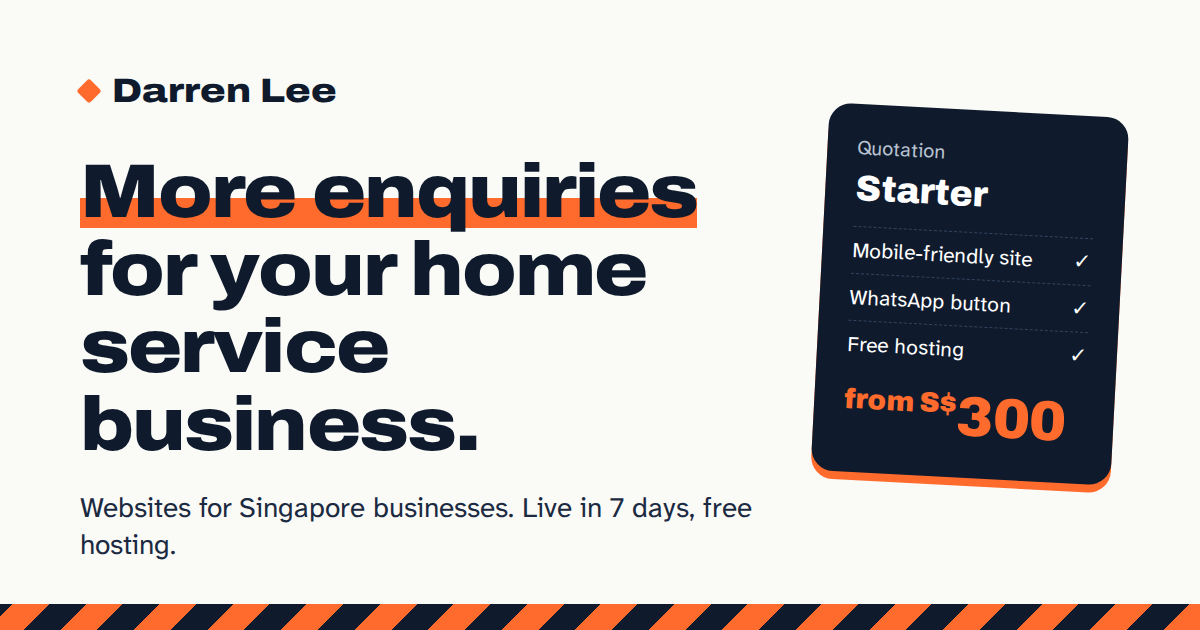
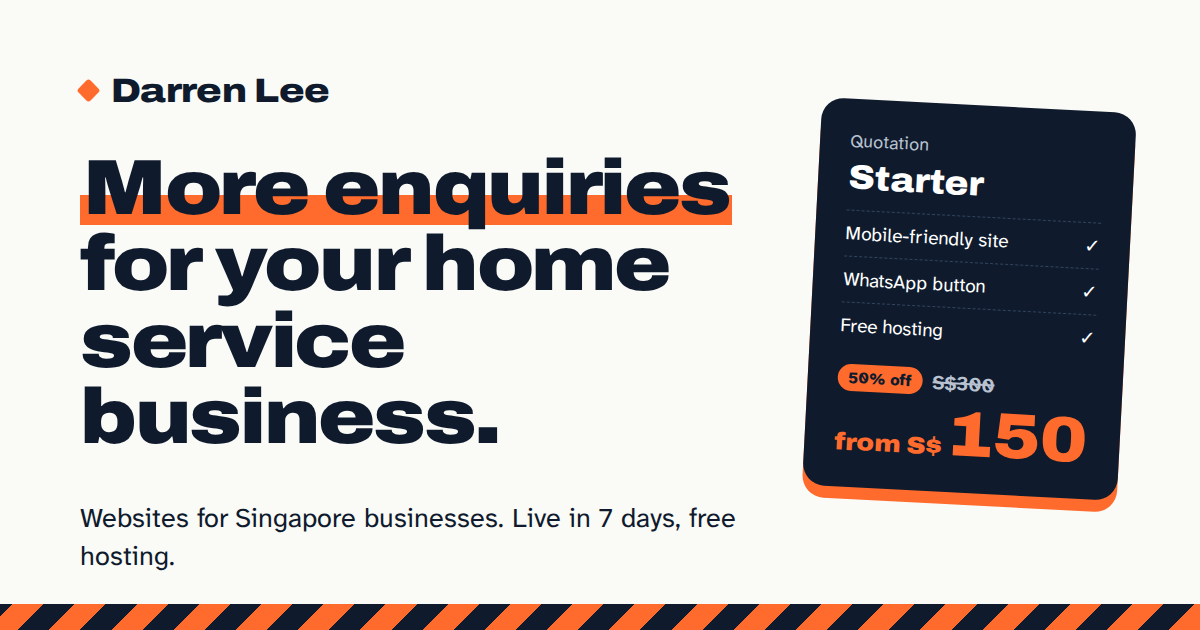
Launch price: halve package prices, show old price struck through
- Starter S$150 (was S$300), Business S$250 (was S$500),
  Business + Tool from S$500 (was S$1,000). Care Plan unchanged.
- Each slip's Total row shows the usual price in <s> with a
  "50% off" tag; launch note above the packages. Both set in config.js
  (oldPrice, launchNote, discountTag) and documented in the README.
- Meta description, JSON-LD priceRange, noscript fallback and the
  share image updated to S$150 (image URL bumped to ?v=2).
- Fix: floating WhatsApp button now hides while a price row or button
  sits under it on phones.
- Fix: price was in the page text twice (visual + sr-only copy); now one
  readable copy, hidden from screen readers only during the count-up.

diff --git a/js/site.js b/js/site.js
@@ -88,15 +88,28 @@
 
       var total = el("div", "slip-total");
       total.appendChild(el("span", "slip-total-label", "Total"));
-      total.appendChild(el("span", "slip-from", "from"));
+      var amounts = el("div", "slip-amounts");
+      if (p.oldPrice) {
+        var deal = el("div", "slip-deal");
+        if (C.discountTag) deal.appendChild(el("span", "slip-off", C.discountTag));
+        var was = el("s", "slip-was");
+        was.appendChild(el("span", "sr-only", "usual price "));
+        was.appendChild(doc.createTextNode("S$" + money(p.oldPrice)));
+        deal.appendChild(was);
+        amounts.appendChild(deal);
+      }
+      var now = el("div", "slip-now");
+      now.appendChild(el("span", "slip-from", "from"));
+      /* The price is real text, read once. (It used to be duplicated in an
+         sr-only copy, which made it read "S$300 S$300" in the page text.) */
       var price = el("span", "slip-price");
-      price.setAttribute("aria-hidden", "true");   /* screen readers get the sr-only text below */
       price.appendChild(el("span", "cur", "S$"));
       var amount = el("span", "amt", money(p.price));
       amount.setAttribute("data-value", String(p.price).replace(/[^\d.]/g, ""));
       price.appendChild(amount);
-      total.appendChild(price);
-      total.appendChild(el("span", "sr-only", "S$" + money(p.price)));
+      now.appendChild(price);
+      amounts.appendChild(now);
+      total.appendChild(amounts);
       slip.appendChild(total);
 
       slip.appendChild(waButton("Ask about " + p.name, p.message, p.featured ? "" : "btn-dark"));
@@ -124,6 +137,7 @@
     var target = Number(node.getAttribute("data-value"));
     if (!isFinite(target) || target <= 0) return;
     var finalText = node.textContent;
+    node.setAttribute("aria-hidden", "true");
     node.style.display = "inline-block";
     node.style.minWidth = node.getBoundingClientRect().width + "px";  /* no layout shift */
     node.style.textAlign = "right";
@@ -133,10 +147,14 @@
       var k = Math.min(1, (t - start) / dur);
       var eased = 1 - Math.pow(1 - k, 3);              /* decelerate on arrival */
       node.textContent = k < 1 ? money(Math.round(target * eased / 10) * 10) : finalText;
-      if (k < 1) requestAnimationFrame(frame);
+      if (k < 1) requestAnimationFrame(frame); else node.removeAttribute("aria-hidden");
     }
     requestAnimationFrame(frame);
   }
+
+  /* ---------- Launch discount note (config: launchNote) ---------- */
+  var note = doc.getElementById("launch-note");
+  if (note && C.launchNote) { note.textContent = C.launchNote; note.hidden = false; }
 
   /* ---------- Care plan ---------- */
   var care = doc.getElementById("care-plan");
@@ -234,6 +252,24 @@
       float.classList.toggle("is-hidden", visible.size > 0);
     }, { threshold: 0.4 });
     doc.querySelectorAll(".hero-actions .btn, .promise-cta, .contact-copy .btn, .site-footer").forEach(function (n) { io.observe(n); });
+
+    /* Never sit on top of a price or a call-to-action: watch a strip at the
+       bottom of the screen, as tall as the button, and hide the button
+       while any price row or button is inside that strip. */
+    var under = new Set(), strip;
+    function watchStrip() {
+      if (strip) strip.disconnect();
+      under.clear();
+      var top = Math.max(0, window.innerHeight - 100);
+      strip = new IntersectionObserver(function (entries) {
+        entries.forEach(function (en) { en.isIntersecting ? under.add(en.target) : under.delete(en.target); });
+        float.classList.toggle("is-covering", under.size > 0);
+      }, { rootMargin: "-" + top + "px 0px 0px 0px" });
+      doc.querySelectorAll(".slip-total, .btn, .cta-band, .care a").forEach(function (n) { strip.observe(n); });
+    }
+    watchStrip();
+    var rt;
+    window.addEventListener("resize", function () { clearTimeout(rt); rt = setTimeout(watchStrip, 200); });
   }
 
 })();

diff --git a/index.html b/index.html
@@ -4,7 +4,7 @@
   <meta charset="utf-8">
   <meta name="viewport" content="width=device-width, initial-scale=1">
   <title>Website Design Singapore for Home Service Businesses | Darren Lee</title>
-  <meta name="description" content="Websites for Singapore aircon, plumbing, cleaning and renovation businesses. Live in 7 days, free hosting, from S$300. Free design preview before you pay.">
+  <meta name="description" content="Websites for Singapore aircon, plumbing, cleaning and renovation businesses. Live in 7 days, free hosting, from S$150. Free design preview before you pay.">
   <link rel="canonical" href="https://dlwk9277.github.io/">
   <meta name="theme-color" content="#0F1B2D">
 
@@ -14,7 +14,7 @@
   <meta property="og:title" content="Websites for Singapore home service businesses | Darren Lee">
   <meta property="og:description" content="Get more enquiries with a fast, professional website. Live in 7 days, free hosting, free design preview before you pay.">
   <meta property="og:url" content="https://dlwk9277.github.io/">
-  <meta property="og:image" content="https://dlwk9277.github.io/assets/og-image.png">
+  <meta property="og:image" content="https://dlwk9277.github.io/assets/og-image.png?v=2">
   <meta property="og:image:width" content="1200">
   <meta property="og:image:height" content="630">
   <meta property="og:image:alt" content="Darren Lee: websites for Singapore home service businesses. Live in 7 days.">
@@ -22,7 +22,7 @@
   <meta name="twitter:card" content="summary_large_image">
   <meta name="twitter:title" content="Websites for Singapore home service businesses | Darren Lee">
   <meta name="twitter:description" content="Get more enquiries with a fast, professional website. Live in 7 days, free hosting included.">
-  <meta name="twitter:image" content="https://dlwk9277.github.io/assets/og-image.png">
+  <meta name="twitter:image" content="https://dlwk9277.github.io/assets/og-image.png?v=2">
 
   <link rel="icon" href="assets/favicon.svg" type="image/svg+xml">
   <link rel="icon" href="assets/favicon-32.png" sizes="32x32" type="image/png">
@@ -43,9 +43,9 @@
     "name": "Darren Lee",
     "description": "Websites, landing pages and simple web tools for home service and renovation businesses in Singapore.",
     "url": "https://dlwk9277.github.io/",
-    "image": "https://dlwk9277.github.io/assets/og-image.png",
+    "image": "https://dlwk9277.github.io/assets/og-image.png?v=2",
     "telephone": "+6592778104",
-    "priceRange": "From S$300",
+    "priceRange": "From S$150",
     "areaServed": { "@type": "Country", "name": "Singapore" },
     "address": { "@type": "PostalAddress", "addressCountry": "SG" },
     "paymentAccepted": "PayNow",
@@ -194,9 +194,11 @@
           <p class="section-intro">These are starting prices. After we chat, I'll confirm the full price on WhatsApp before any work begins.</p>
         </div>
 
+        <p class="launch-note" id="launch-note" hidden></p>
+
         <div class="slips" id="package-list">
           <!-- Filled in from js/config.js. This fallback shows if JavaScript is off. -->
-          <noscript><p>Packages start from S$300. WhatsApp +65 9277 8104 for prices.</p></noscript>
+          <noscript><p>Packages start from S$150. WhatsApp +65 9277 8104 for prices.</p></noscript>
         </div>
 
         <div class="packages-foot">

diff --git a/css/style.css b/css/style.css
@@ -258,7 +258,7 @@ a { color: inherit; }
 .slip-items li { display: flex; gap: 10px; align-items: flex-start; }
 .slip-items .icon { color: var(--ink); background: var(--orange-soft); border-radius: 50%; padding: 3px; width: 22px; height: 22px; margin-top: 2px; }
 .slip-total {
-  position: relative; display: flex; align-items: baseline; gap: 8px; margin-top: 26px; padding-top: 18px;
+  position: relative; display: flex; align-items: flex-end; gap: 8px; margin-top: 26px; padding-top: 18px;
   border-top: 2px dashed var(--ink);
 }
 /* ticket notches where the slip "tears off" */
@@ -270,6 +270,14 @@ a { color: inherit; }
 .slip-total::after { right: -36px; clip-path: inset(0 50% 0 0); }
 .slip-total-label { font-weight: 700; margin-right: auto; }
 .slip-from { font-size: .95rem; color: var(--slate); }
+.slip-amounts { display: grid; justify-items: end; gap: 6px; }
+.slip-deal { display: flex; align-items: center; gap: 8px; }
+.slip-off {
+  background: var(--orange); color: var(--ink); font-weight: 800; font-size: .8rem;
+  padding: 2px 9px; border-radius: 999px; white-space: nowrap;
+}
+.slip-was { color: var(--slate); font-weight: 700; font-size: 1.05rem; text-decoration-thickness: 2px; }
+.slip-now { display: flex; align-items: baseline; gap: 8px; }
 .slip-price { font-family: var(--f-display); font-weight: 900; font-stretch: 112%; font-size: 2.5rem; line-height: 1; }
 .slip-price .cur { font-size: .5em; vertical-align: .5em; margin-right: 2px; }
 .slip .btn { margin-top: 22px; width: 100%; }
@@ -278,7 +286,8 @@ a { color: inherit; }
 .slip.is-featured .slip-head { border-bottom-color: #33445e; }
 .slip.is-featured .slip-doc,
 .slip.is-featured .slip-for,
-.slip.is-featured .slip-from { color: var(--on-ink-muted); }
+.slip.is-featured .slip-from,
+.slip.is-featured .slip-was { color: var(--on-ink-muted); }
 .slip.is-featured .slip-items .icon { background: var(--orange); }
 .slip.is-featured .slip-total { border-top-color: var(--orange); }
 .slip.is-featured .slip-price { color: var(--orange); }       /* orange on navy: 6:1 */
@@ -403,6 +412,11 @@ a { color: inherit; }
 .footer-links a:hover { color: var(--orange); }
 .footer-links .icon { color: var(--orange); }
 
+.launch-note {
+  display: inline-block; margin: 0 0 30px; font-weight: 700; font-size: 1.05rem;
+  background: var(--orange-soft); border: 2px solid var(--ink); border-radius: var(--r-sm); padding: 8px 14px;
+}
+
 /* Floating WhatsApp (mobile/tablet only) */
 .wa-float {
   position: fixed; right: 16px; bottom: calc(16px + env(safe-area-inset-bottom)); z-index: 60;
@@ -411,7 +425,7 @@ a { color: inherit; }
   transition: transform .2s var(--ease), opacity .2s;
 }
 .wa-float .icon { width: 30px; height: 30px; }
-.wa-float.is-hidden { opacity: 0; transform: translateY(20px) scale(.8); pointer-events: none; }
+.wa-float.is-hidden, .wa-float.is-covering { opacity: 0; transform: translateY(20px) scale(.8); pointer-events: none; }
 
 /* ---------- Motion: three moments (all skipped with reduced motion) ----------
    Nothing is hidden by default: if an animation never runs, the final

diff --git a/js/config.js b/js/config.js
@@ -44,13 +44,22 @@ window.SITE_CONFIG = {
   /* ---------- PACKAGES & PRICES -----------------------------------------
      Change names, prices and what's included here.
      - price: a number in S$ (no "S$", no commas), e.g. 1500
+     - oldPrice: optional. The usual price, shown crossed out next to
+       price with the discount tag. Delete the line to stop showing it.
      - featured: true puts the "Most popular" tag on that package
      - message: the WhatsApp message for that package's button        */
+  /* Launch discount. Shown above the packages, and as the small tag
+     next to each crossed-out oldPrice. Set both to "" to switch off
+     (and delete the oldPrice lines).                                  */
+  launchNote: "Launch price: 50% off while I take on my first clients.",
+  discountTag: "50% off",
+
   packages: [
     {
       id: "starter",            /* a short unique label, no spaces */
       name: "Starter",
-      price: 300,
+      price: 150,
+      oldPrice: 300,
       bestFor: "New businesses that need to look legit online, fast.",
       includes: [
         "One-page website",
@@ -66,7 +75,8 @@ window.SITE_CONFIG = {
     {
       id: "business",
       name: "Business",
-      price: 500,
+      price: 250,
+      oldPrice: 500,
       bestFor: "Established businesses that want more enquiries from Google.",
       includes: [
         "4 to 6 pages",
@@ -83,7 +93,8 @@ window.SITE_CONFIG = {
     {
       id: "business-tool",
       name: "Business + Tool",
-      price: 1000,
+      price: 500,
+      oldPrice: 1000,
       bestFor: "Businesses that get the same questions every day.",
       includes: [
         "Everything in Business",

diff --git a/README.md b/README.md
@@ -83,7 +83,8 @@ When you set up an ad campaign aimed at messages or leads, choose this Pixel and
 
 All in `js/config.js`:
 
-- **Prices:** each package has `price: 500`. Type a plain number with no `S$` and no commas. The site formats it as `S$1,500`.
+- **Prices:** each package has `price: 250`. Type a plain number with no `S$` and no commas. The site formats it as `S$1,500`.
+- **Launch discount (crossed-out prices):** a package with `oldPrice: 500` shows S$500 crossed out next to its `price`, with the small `discountTag` ("50% off"). The line above the packages is `launchNote`. To end the discount: set `price` back to the usual price, delete the `oldPrice` lines, and set `launchNote` and `discountTag` to `""`. Then update the starting price in `index.html` too (see the note below).
 - **Package details:** edit `name`, `bestFor` (the one-line description) and the `includes` list. Each item goes in quotes, separated by commas.
 - **"Most popular" tag:** set `featured: true` on the package you want highlighted and `false` on the others.
 - **Each package's WhatsApp message:** the `message` line inside that package.
@@ -91,7 +92,7 @@ All in `js/config.js`:
 - **Other WhatsApp messages:** the `whatsappMessages` block. `hero` is the top button, `packages` is "Ask which package fits", `preview` is "Get my free design preview", `contact` is the bottom section, and `floating` is the round phone button. Write them normally; the site handles the link encoding.
 - **WhatsApp number:** `whatsappNumber: "6592778104"`, as country code + number, digits only. This updates every button and the number shown on the page. If you ever change it, also find-and-replace `6592778104` and `+65 9277 8104` in `index.html`, `privacy.html` and `404.html` (fallback links and Google's business details). The comment in `config.js` lists the exact spots.
 
-> If you change the starting price, also update the starting price (currently `S$300`) in the `<meta name="description">` line, the `priceRange` near the top of `index.html`, and the FAQ answer that mentions the Care Plan price.
+> If you change the starting price, also update the starting price (currently `S$150`) in the `<meta name="description">` line, the `priceRange` near the top of `index.html`, and the FAQ answer that mentions the Care Plan price. The share image `assets/og-image.png` also shows the Starter price; its source is kept outside this repo (`~/sites/brand/og/`), so ask for a re-render. After changing the image, bump `?v=` on the `og:image` and `twitter:image` lines so WhatsApp and Facebook fetch the new one.
 
 ## 5. Turn on testimonials (when you have real ones)
 
